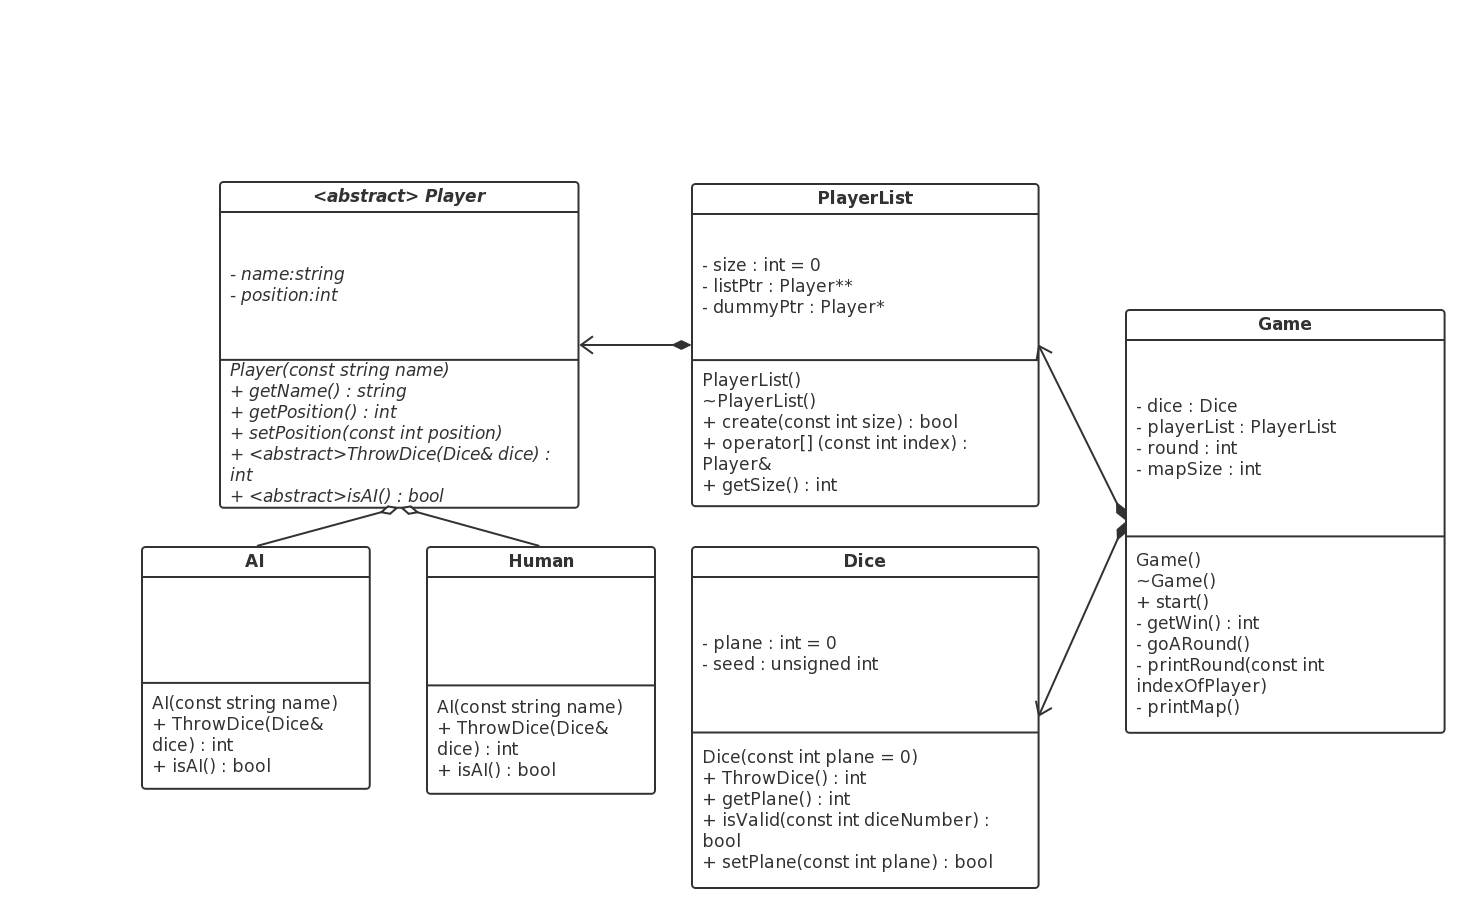
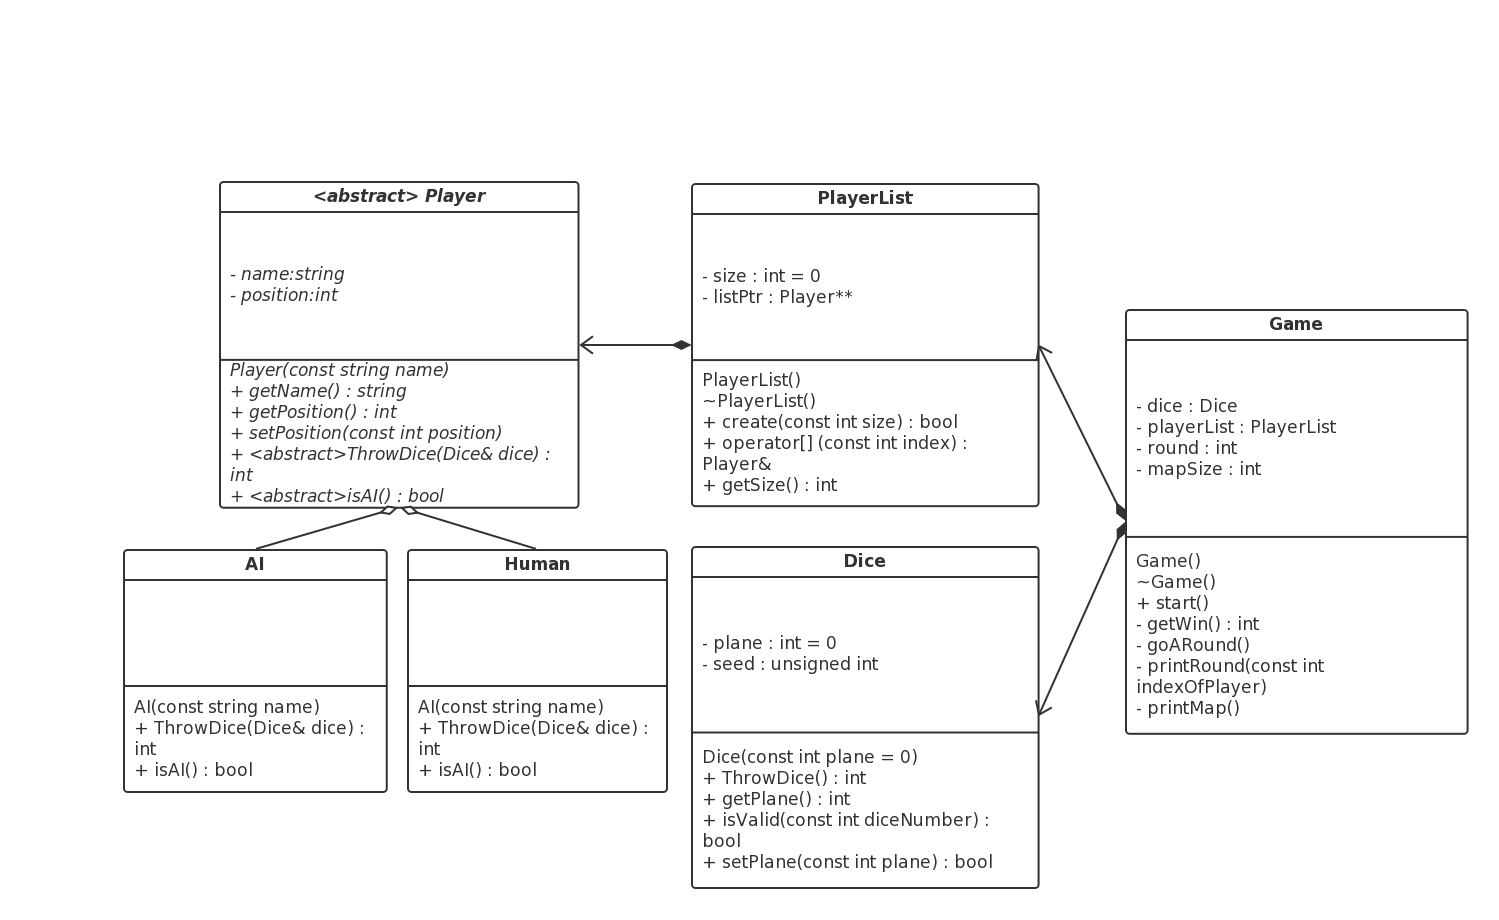
throw our exeception

diff --git a/SoftwareDesignII/Project/1000/PlayerList.h b/SoftwareDesignII/Project/1000/PlayerList.h
@@ -2,9 +2,10 @@
 #define _PLAYER_LIST_H 
 
 #include "Player.h"
+#include <stdexcept>
 #include <iostream>
 using std::cin;
-using std::cerr;
+using std::out_of_range;
 
 class PlayerList
 {
@@ -18,83 +19,79 @@ public:
 private:
     Player** listPtr;								
     int size;									//	size of the list
-    Player* dummyPtr;
 };
 
 PlayerList::PlayerList()
 {
-	this->size = 0;
-	listPtr = NULL;
-    dummyPtr = new AI("dummy");
+    this->size = 0;
+    listPtr = NULL;
 }
 
 bool PlayerList::create(const int size)
 {
-    if(this->size != 0)	//	the list is not empty or invalid
+    if(this->size != 0) //  the list is not empty or invalid
     {
-	    return false;
-	}
-	else
-	{
-		this->size = size;
-		listPtr = new Player*[size];
-	    for (int i = 0; i < size; ++i)
-	    {
-	        printf("\n");
+        return false;
+    }
+    else
+    {
+        this->size = size;
+        listPtr = new Player*[size];
+        for (int i = 0; i < size; ++i)
+        {
+            printf("\n");
             printf("Please input player%d's name: ", i);
-	        string name;
-	        cin >> name;
+            string name;
+            cin >> name;
 
-	        printf("Is it a AI?(Yes or No)\n");
-	        string isAI;
-	        cin >> isAI;
-	        while (isAI != "Yes" && isAI != "No")
-	        {
-	        	printf("Please input again\nIs it a AI?(Yes or No)\n");
-	        	cin >> isAI;
-	        }
-	        if (isAI == "Yes")
-	        {
-	        	listPtr[i] = new AI(name);
-	        }
-	        else
-	        {
-	        	listPtr[i] = new Human(name);
-	        }
-	    }
-	    return true;
-	}
+            printf("Is it a AI?(Yes or No)\n");
+            string isAI;
+            cin >> isAI;
+            while (isAI != "Yes" && isAI != "No")
+            {
+                printf("Please input again\nIs it a AI?(Yes or No)\n");
+                cin >> isAI;
+            }
+            if (isAI == "Yes")
+            {
+                listPtr[i] = new AI(name);
+            }
+            else
+            {
+                listPtr[i] = new Human(name);
+            }
+        }
+        return true;
+    }
 }
 
 PlayerList::~PlayerList()
 {
     for (int i = 0; i < size; ++i)
     {
-    	delete listPtr[i];
-	    listPtr[i] = NULL;
+        delete listPtr[i];
+        listPtr[i] = NULL;
     }
     delete[] listPtr;
     listPtr = NULL;
-    delete dummyPtr;
 }
 
 Player& PlayerList::operator[] (const int index) const
 {
-	if (0 <= index && index <= size - 1)
-	{
-		return *listPtr[index];
-	}
-	//	out of boundry
-	else
-	{
-		cerr << "Out of boundry!\n";
-        return *dummyPtr;
-	}
+    if (0 <= index && index <= size - 1)
+    {
+        return *listPtr[index];
+    }
+    //  out of boundry
+    else
+    {
+        throw out_of_range("Out of boundry exeception");
+    }
 }
 
 int PlayerList::getSize() const
 {
-	return size;
+    return size;
 }
 
 #endif

diff --git a/SoftwareDesignII/Project/1000/Game.h b/SoftwareDesignII/Project/1000/Game.h
@@ -29,7 +29,7 @@ private:
 
 Game::Game() : round(0)
 {
-    //	initialize map
+    //  initialize map
     int mapSize;
     printf("Please input map size: ");
     scanf("%d", &mapSize);
@@ -51,7 +51,7 @@ Game::Game() : round(0)
     }
     dice.setPlane(plane);
 
-    //	initialize player
+    //  initialize player
     int player;
     printf("How many players?\n");
     scanf("%d", &player);
@@ -84,7 +84,7 @@ void Game::printRound(const int indexOfPlayer) const
 void Game::printMap() const
 {
     //  nobody win
-    if (getWin() == -1)	
+    if (getWin() == -1) 
     {
         //  print map
         for (int i = 0; i <= mapSize; ++i)
@@ -93,7 +93,7 @@ void Game::printMap() const
         }
         printf("\n");
         //  print player
-        for (int i = 0; i < playerList.getSize(); ++i)	
+        for (int i = 0; i < playerList.getSize(); ++i)  
         {
             for (int j = 0; j <= playerList[i].getPosition() - 1; ++j)
             {
@@ -121,7 +121,7 @@ int Game::getWin() const
             return i;
         }
     }
-    return -1;	// nobody win
+    return -1;  // nobody win
 }
 
 void Game::goARound()

diff --git a/SoftwareDesignII/Project/1000/Player.h b/SoftwareDesignII/Project/1000/Player.h
@@ -20,6 +20,22 @@ protected:
     int position;
 };
 
+class AI : public Player
+{
+public:
+    AI(const string name);
+    int throwDice(Dice& dice);
+    bool isAI();
+};
+
+class Human : public Player
+{
+public:
+    Human(const string name);
+    int throwDice(Dice& dice);
+    bool isAI();
+};
+
 Player::Player(const string name)
 {
     this->name = name;
@@ -40,15 +56,6 @@ void Player::setPosition(const int position)
 {
     this->position = position;
 }
-
-class AI : public Player
-{
-public:
-    AI(const string name);
-    int throwDice(Dice& dice);
-    bool isAI();
-};
-
 AI::AI(const string name) : Player(name)
 {
 }
@@ -65,15 +72,6 @@ bool AI::isAI()
 {
     return true;
 }
-
-class Human : public Player
-{
-public:
-    Human(const string name);
-    int throwDice(Dice& dice);
-    bool isAI();
-};
-
 Human::Human(const string name) : Player(name)
 {
 }
